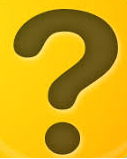
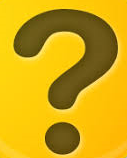
modified js and css to test broser comp

diff --git a/styles/main.css b/styles/main.css
@@ -68,19 +68,12 @@ h1{
 .front {
   position: fixed;
   backface-visibility: hidden;
-  transition: 500ms;
-  z-index: 1000;
-  -webkit-transition: 500ms;
--o-transition: 500ms;
   /* background: url("/images/Question_mark_card.png") no-repeat center / contain; */
 }
 
 .back{
   -webkit-transform: rotateY(180deg);
   -webkit-transition: 500ms;
--o-transition: 500ms;
-  transition: 500ms;
-  z-index: 1000;
   background-color: black;
   background-size: contain;
   background-repeat: no-repeat;

diff --git a/scripts/script.js b/scripts/script.js
@@ -71,7 +71,7 @@ const imagesArray = [
 
       var front = document.createElement("div");
       front.classList.add("front");
-      front.style.background = "url('./images/Question_mark_card.png') no-repeat center"
+      front.style.background = "url('./images/Question_mark_card.png') no-repeat center/ contain"
 
       var back = document.createElement("div");
       back.classList.add("back");
